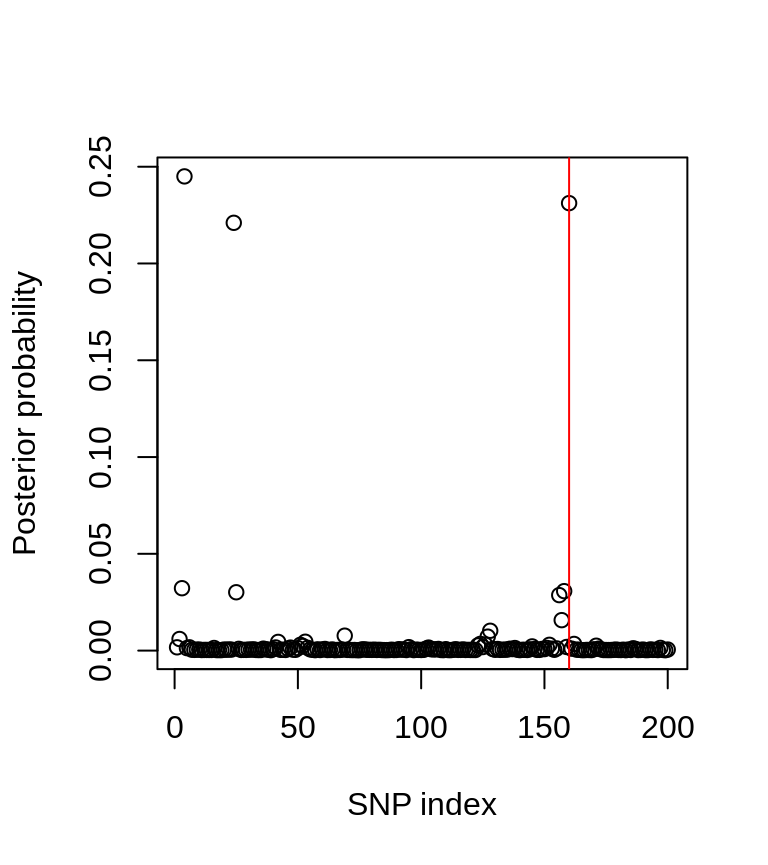
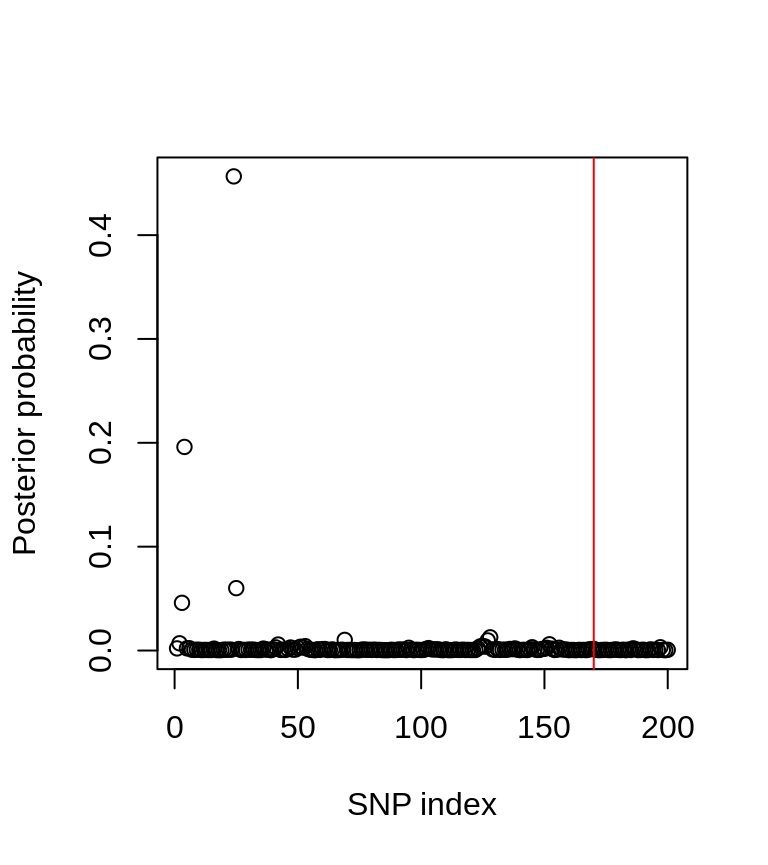
Built site for corrcoverage: 0.0.1.900@95f3ade

diff --git a/articles/New-Credible-Set.html b/articles/New-Credible-Set.html
@@ -132,7 +132,7 @@
 <p>We use the <code>est_mu</code> function to obtain an estimate of the true effect at the causal variant.</p>
 <div class="sourceCode" id="cb7"><pre class="sourceCode r"><code class="sourceCode r"><a class="sourceLine" id="cb7-1" data-line-number="1">muhat &lt;-<span class="st"> </span><span class="kw"><a href="../reference/est_mu.html">est_mu</a></span>(z0, MAF, N0, N1)</a>
 <a class="sourceLine" id="cb7-2" data-line-number="2">muhat</a></code></pre></div>
-<pre><code>## [1] 4.970273</code></pre>
+<pre><code>## [1] 4.437987</code></pre>
 <hr>
 </div>
 <div id="derive-corrected-coverage-estimate" class="section level3">
@@ -146,7 +146,7 @@
 <a class="sourceLine" id="cb9-3" data-line-number="3">cs &lt;-<span class="st"> </span><span class="kw"><a href="../reference/credset.html">credset</a></span>(<span class="dt">pp =</span> postprobs, <span class="dt">thr =</span> thr)</a>
 <a class="sourceLine" id="cb9-4" data-line-number="4"><span class="kw"><a href="https://www.rdocumentation.org/packages/base/topics/data.frame">data.frame</a></span>(<span class="dt">claimed.cov =</span> cs<span class="op">$</span>claimed.cov, <span class="dt">corr.cov =</span>  corrcov, <span class="dt">nvar =</span> cs<span class="op">$</span>nvar)</a></code></pre></div>
 <pre><code>##   claimed.cov  corr.cov nvar
-## 1   0.9307395 0.9672825    9</code></pre>
+## 1    0.925687 0.9603044    4</code></pre>
 <p>Using the Bayesian approach for statistical fine-mapping we obtain a 90% credible set consisting of 9 variants. The claimed coverage of this credible set is ~0.93, yet the corrected coverage estimate is ~0.97, suggesting that we can afford to be ‘more confident’ that we have captured the causal variant in our credible set.</p>
 <hr>
 </div>
@@ -168,7 +168,7 @@
 <a class="sourceLine" id="cb11-11" data-line-number="11">true.cov.est &lt;-<span class="st"> </span><span class="kw"><a href="https://www.rdocumentation.org/packages/base/topics/mean">mean</a></span>(cs.cov)</a>
 <a class="sourceLine" id="cb11-12" data-line-number="12"><span class="kw"><a href="https://www.rdocumentation.org/packages/base/topics/data.frame">data.frame</a></span>(<span class="dt">claimed.cov =</span> cs<span class="op">$</span>claimed.cov, <span class="dt">corr.cov =</span>  corrcov, <span class="dt">true.cov =</span> true.cov.est, <span class="dt">nvar =</span> cs<span class="op">$</span>nvar)</a></code></pre></div>
 <pre><code>##   claimed.cov  corr.cov true.cov nvar
-## 1   0.9307395 0.9672825   0.9696    9</code></pre>
+## 1    0.925687 0.9603044   0.9612    4</code></pre>
 <p>We find that our corrected coverage value is very close to the empirical coverage of the credible set.</p>
 <hr>
 </div>
@@ -206,23 +206,24 @@
 <p>The function reports the threshold values tested and their corresponding corrected coverage value at each iteration. The maximum number of iterations for the bisecting root finding algorithm is an optional parameter, with default value 20. The functions stops when either the number of iterations reaches the maximum, or the corrected coverage is within some accuracy of the desired coverage.</p>
 <div class="sourceCode" id="cb13"><pre class="sourceCode r"><code class="sourceCode r"><a class="sourceLine" id="cb13-1" data-line-number="1">res &lt;-<span class="st"> </span><span class="kw"><a href="../reference/corrected_cs.html">corrected_cs</a></span>(<span class="dt">z =</span> z0, <span class="dt">f =</span> MAF, N0, N1, </a>
 <a class="sourceLine" id="cb13-2" data-line-number="2">                    <span class="dt">Sigma =</span> LD, <span class="dt">lower =</span> <span class="fl">0.5</span>, <span class="dt">upper =</span> <span class="dv">1</span>, <span class="dt">desired.cov =</span> <span class="fl">0.9</span>)</a></code></pre></div>
-<pre><code>## [1] "thr:  0.75 , cov:  0.917720376269878"
-## [1] "thr:  0.625 , cov:  0.878893777630186"
-## [1] "thr:  0.6875 , cov:  0.896800428830677"
-## [1] "thr:  0.71875 , cov:  0.907035299005275"
-## [1] "thr:  0.703125 , cov:  0.901704434955293"</code></pre>
+<pre><code>## [1] "thr:  0.75 , cov:  0.911130168156529"
+## [1] "thr:  0.625 , cov:  0.863372335203957"
+## [1] "thr:  0.6875 , cov:  0.886796184036723"
+## [1] "thr:  0.71875 , cov:  0.899593001147898"
+## [1] "thr:  0.734375 , cov:  0.90531956631607"
+## [1] "thr:  0.7265625 , cov:  0.902735401137361"</code></pre>
 <div class="sourceCode" id="cb15"><pre class="sourceCode r"><code class="sourceCode r"><a class="sourceLine" id="cb15-1" data-line-number="1">res</a></code></pre></div>
 <pre><code>## $credset
-## [1] "s54" "s58" "s57" "s67"
+## [1] "s12" "s10" "s9" 
 ## 
 ## $req.thr
-## [1] 0.703125
+## [1] 0.7265625
 ## 
 ## $corr.cov
-## [1] 0.9017044
+## [1] 0.9027354
 ## 
 ## $size
-## [1] 0.7343958</code></pre>
+## [1] 0.8137297</code></pre>
 <p>The first threshold value tested is the midpoint of the <code>lower</code> (0.5) and <code>upper</code> (1) parameter values, which here is 0.75. The coverage of this credible set is too high (<span class="math inline">\(&gt;0.9\)</span>) and so a smaller threshold value is tested, the midpoint of the <code>lower</code> parameter value (0.5) and the previously tried threshold value (0.75). This credible set has a coverage that is too low, and so a higher threshold value is tested, and so on.</p>
 <p>In this example we see that a much smaller threshold value is required to obtain a credible set with 90% corrected coverage of the causal variant, containing only 4 variants. In the standard Bayesian approach, the threshold value of 90% leads to over-coverage.</p>
 <hr>
@@ -231,10 +232,10 @@
 <a class="sourceLine" id="cb17-2" data-line-number="2">true.cov.est2 &lt;-<span class="st"> </span><span class="kw"><a href="https://www.rdocumentation.org/packages/base/topics/mean">mean</a></span>(new.cs.sims)</a></code></pre></div>
 <p>Original 90% credible set:</p>
 <pre><code>##  claimed.cov corr.cov true.cov nvar
-##        0.931    0.967     0.97    9</code></pre>
+##        0.926     0.96    0.961    4</code></pre>
 <p>New 90% credible set:</p>
 <pre><code>##  claimed.cov corr.cov true.cov nvar
-##        0.734    0.902    0.897    4</code></pre>
+##        0.814    0.903    0.887    3</code></pre>
 <hr>
 <p>This vignette has shown how the <code>corrcoverage</code> R package can be used to improve the resolution of a credible set from Bayesian genetic fine-mapping, without the use of any additional data.</p>
 </div>

diff --git a/articles/corrected-coverage.html b/articles/corrected-coverage.html
@@ -80,7 +80,7 @@
       <h1>Correcting the Coverage of Credible Sets</h1>
                         <h4 class="author">Anna Hutchinson</h4>
             
-            <h4 class="date">2019-08-13</h4>
+            <h4 class="date">2019-08-14</h4>
       
       
       <div class="hidden name"><code>corrected-coverage.Rmd</code></div>
@@ -140,7 +140,7 @@
 <a class="sourceLine" id="cb7-8" data-line-number="8"><span class="kw"><a href="https://www.rdocumentation.org/packages/base/topics/length">length</a></span>(z0)</a></code></pre></div>
 <pre><code>## [1] 200</code></pre>
 <div class="sourceCode" id="cb9"><pre class="sourceCode r"><code class="sourceCode r"><a class="sourceLine" id="cb9-1" data-line-number="1">z0[<span class="dv">1</span><span class="op">:</span><span class="dv">5</span>]</a></code></pre></div>
-<pre><code>## [1] -1.889831 -2.534196 -3.139531 -3.753833 -1.821278</code></pre>
+<pre><code>## [1] -1.730825 -2.398744 -3.099309 -3.554752 -1.842284</code></pre>
 <p><code>z0</code> is a vector of marginal Z scores for the SNPs in our genomic region.</p>
 <hr>
 </div>
@@ -180,13 +180,13 @@
 <a class="sourceLine" id="cb12-4" data-line-number="4"></a>
 <a class="sourceLine" id="cb12-5" data-line-number="5">credibleset</a></code></pre></div>
 <pre><code>## $credset
-##  [1]   4 160  24   3 158  25 156 157 128  69 127   2  53  42 124 162 126 152  51 123 171  52 145
+##  [1]  24   4  25   3 128  69 127   2 152  42 125  53 124 126  51 145 197  41  52  47 156  95 151  50 103 123   6   5 186   1 138  36  16 153  46 150  54 149 136 102 170  61  26  60 169 131 137 104 144 146
 ## 
 ## $claimed.cov
-## [1] 0.9007093
+## [1] 0.9001601
 ## 
 ## $nvar
-## [1] 23</code></pre>
+## [1] 50</code></pre>
 <div class="sourceCode" id="cb14"><pre class="sourceCode r"><code class="sourceCode r"><a class="sourceLine" id="cb14-1" data-line-number="1"><span class="co"># is the true CV contained within the credible set?</span></a>
 <a class="sourceLine" id="cb14-2" data-line-number="2"></a>
 <a class="sourceLine" id="cb14-3" data-line-number="3">thresh &lt;-<span class="st"> </span><span class="fl">0.9</span></a>
@@ -195,16 +195,16 @@
 <a class="sourceLine" id="cb14-6" data-line-number="6"></a>
 <a class="sourceLine" id="cb14-7" data-line-number="7">credibleset</a></code></pre></div>
 <pre><code>## $credset
-##  [1]   4 160  24   3 158  25 156 157 128  69 127   2  53  42 124 162 126 152  51 123 171  52 145
+##  [1]  24   4  25   3 128  69 127   2 152  42 125  53 124 126  51 145 197  41  52  47 156  95 151  50 103 123   6   5 186   1 138  36  16 153  46 150  54 149 136 102 170  61  26  60 169 131 137 104 144 146
 ## 
 ## $claimed.cov
-## [1] 0.9007093
+## [1] 0.9001601
 ## 
 ## $covered
 ## [1] 1
 ## 
 ## $nvar
-## [1] 23</code></pre>
+## [1] 50</code></pre>
 <p>The 90% credible set has a claimed coverage of ~90% and contains the true causal variant. In the literature, authors would typically report that they have found a 90% credible set which they are at least 90% confident contains the true causal variant.</p>
 <p>Note that if the variants are named in the <code>pp</code> vector, then the <code>$credset</code> output would contain variant names rather than their indices.</p>
 <hr>
@@ -229,7 +229,7 @@
 <p><strong>Note that if the estimated effect size coefficients (<code>bhat</code>) and their standard errors (<code><a href="https://www.rdocumentation.org/packages/base/topics/MathFun">sqrt(V)</a></code>) are known instead of <span class="math inline">\(Z\)</span>-scores and minor allele frequencies, then the <code>corrcov_bhat</code> function can be used analogously.</strong></p>
 <div class="sourceCode" id="cb16"><pre class="sourceCode r"><code class="sourceCode r"><a class="sourceLine" id="cb16-1" data-line-number="1">corrected_cov_estimate &lt;-<span class="st"> </span><span class="kw"><a href="../reference/corrcov.html">corrcov</a></span>(<span class="dt">z =</span> z0, <span class="dt">f =</span> MAF, N0, N1, <span class="dt">Sigma =</span> LD, <span class="dt">thr =</span> thresh)</a></code></pre></div>
 <pre><code>##  Corrected.Coverage Claimed.Coverage Threshold
-##           0.9833866        0.9007093       0.9</code></pre>
+##           0.9858226        0.9001601       0.9</code></pre>
 <p>In our example, the 90% credible set may have nearer to 98% coverage of the causal variant in the credible set.</p>
 <hr>
 </div>
@@ -251,10 +251,10 @@
 <a class="sourceLine" id="cb18-11" data-line-number="11">cs &lt;-<span class="st"> </span><span class="kw"><a href="https://www.rdocumentation.org/packages/base/topics/apply">apply</a></span>(pps, <span class="dv">1</span>, <span class="cf">function</span>(x) <span class="kw"><a href="../reference/credset.html">credset</a></span>(x, <span class="dt">CV =</span> iCV, <span class="dt">thr =</span> thresh)<span class="op">$</span>cov)</a>
 <a class="sourceLine" id="cb18-12" data-line-number="12">true.cov.est &lt;-<span class="st"> </span><span class="kw"><a href="https://www.rdocumentation.org/packages/base/topics/mean">mean</a></span>(cs)</a>
 <a class="sourceLine" id="cb18-13" data-line-number="13">true.cov.est</a></code></pre></div>
-<pre><code>## [1] 0.981</code></pre>
+<pre><code>## [1] 0.9832</code></pre>
 <p>The estimated empirical coverage is found to be approximately 98%, showing that our corrected coverage estimate was indeed accurate - far more so than the standard claimed coverage of ~90%.</p>
 <pre><code>##  Empirical.Coverage Corrected.Coverage Claimed.Coverage Threshold
-##               0.981          0.9833866        0.9007093       0.9</code></pre>
+##              0.9832          0.9858226        0.9001601       0.9</code></pre>
 <hr>
 </div>
 <div id="so-what" class="section level3">
